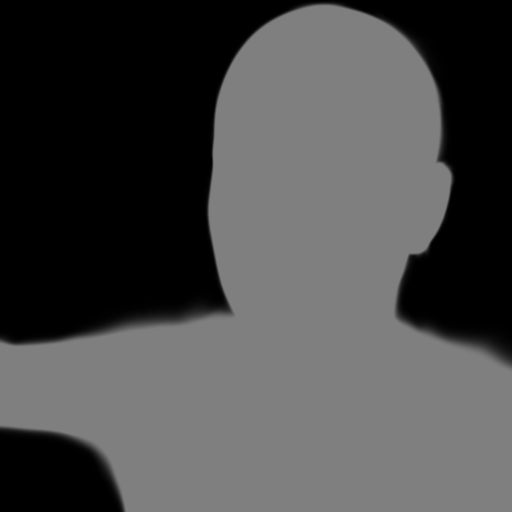
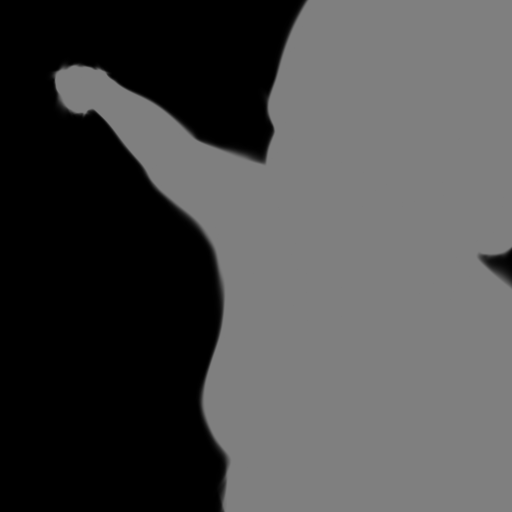
a-pose

diff --git a/dataset/train_sds.py b/dataset/train_sds.py
@@ -72,6 +72,26 @@ class Dataset(torch.utils.data.Dataset):
             
         # save_obj('./canonical_mesh.obj', canonical_vertex, canonical_faces)
 
+        # # for a-pose
+        # import smplx
+        # MODEL_DIR = '../utils/smplx/models'
+        # sex = 'neutral'
+        # smplx_model = smplx.create(MODEL_DIR, model_type='smplx',
+        #                  gender=sex, use_face_contour=False,
+        #                  num_betas=10,
+        #                  ext='npz')
+        # # change a-pose here
+        # a_pose = torch.from_numpy(np.zeros(smplx_model.NUM_BODY_JOINTS * 3, ).astype(np.float32)).unsqueeze(0)
+        # output = smplx_model(betas=torch.from_numpy(canonical_beta).unsqueeze(0), 
+        #                     body_pose=a_pose,
+        #                     return_verts=True,
+        #                     return_full_pose=True)
+        # v = output.vertices.detach().cpu().numpy().squeeze()
+        # full_pose = output.full_pose.detach().cpu().numpy().squeeze()
+        # num_joints = full_pose.reshape(-1, 3).shape[0]
+        # a_template_joints = output.joints.detach().cpu().numpy().squeeze()
+        # a_template_joints = a_template_joints[:num_joints, :]
+
         return canonical_joints, canonical_bbox, canonical_vertex, canonical_lbs_weights, canonical_edges, canonical_faces, canonical_pose, canonical_beta
 
 
